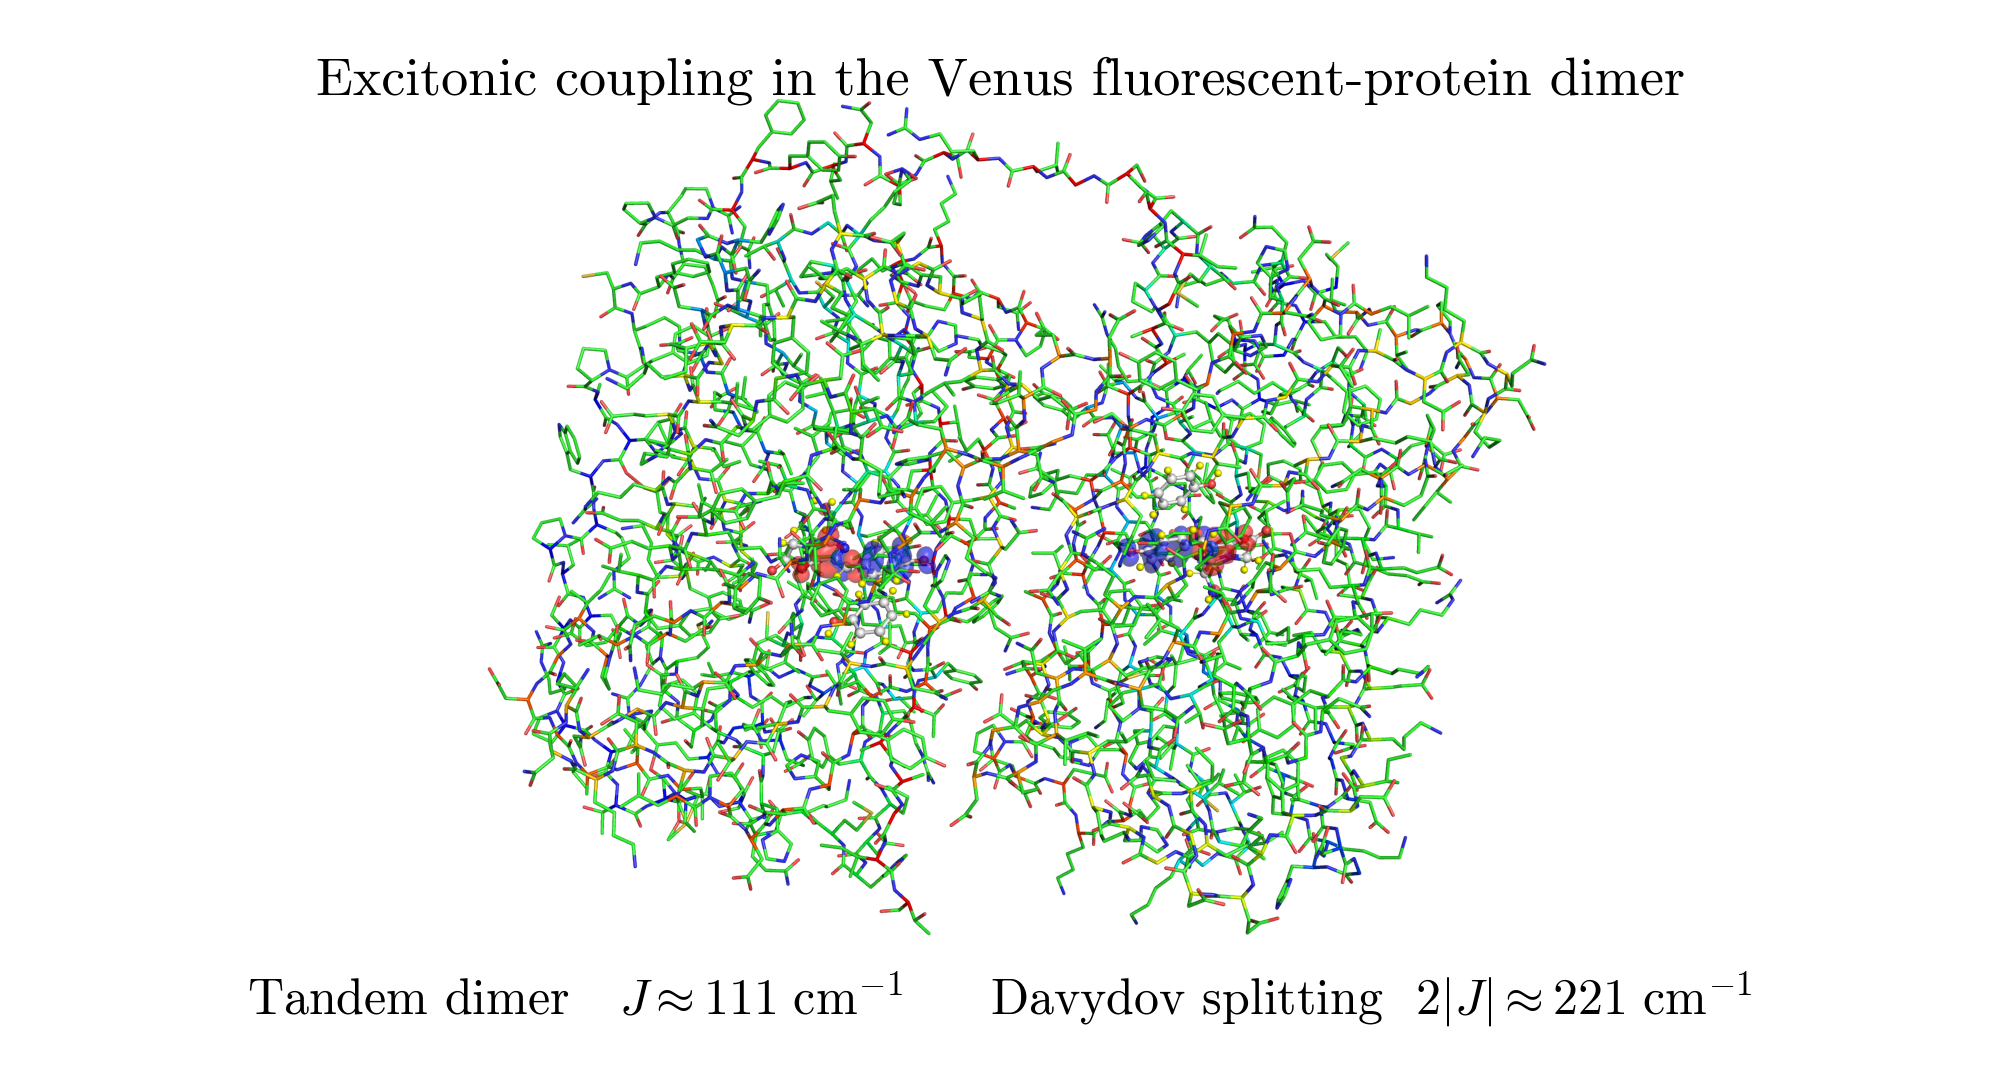
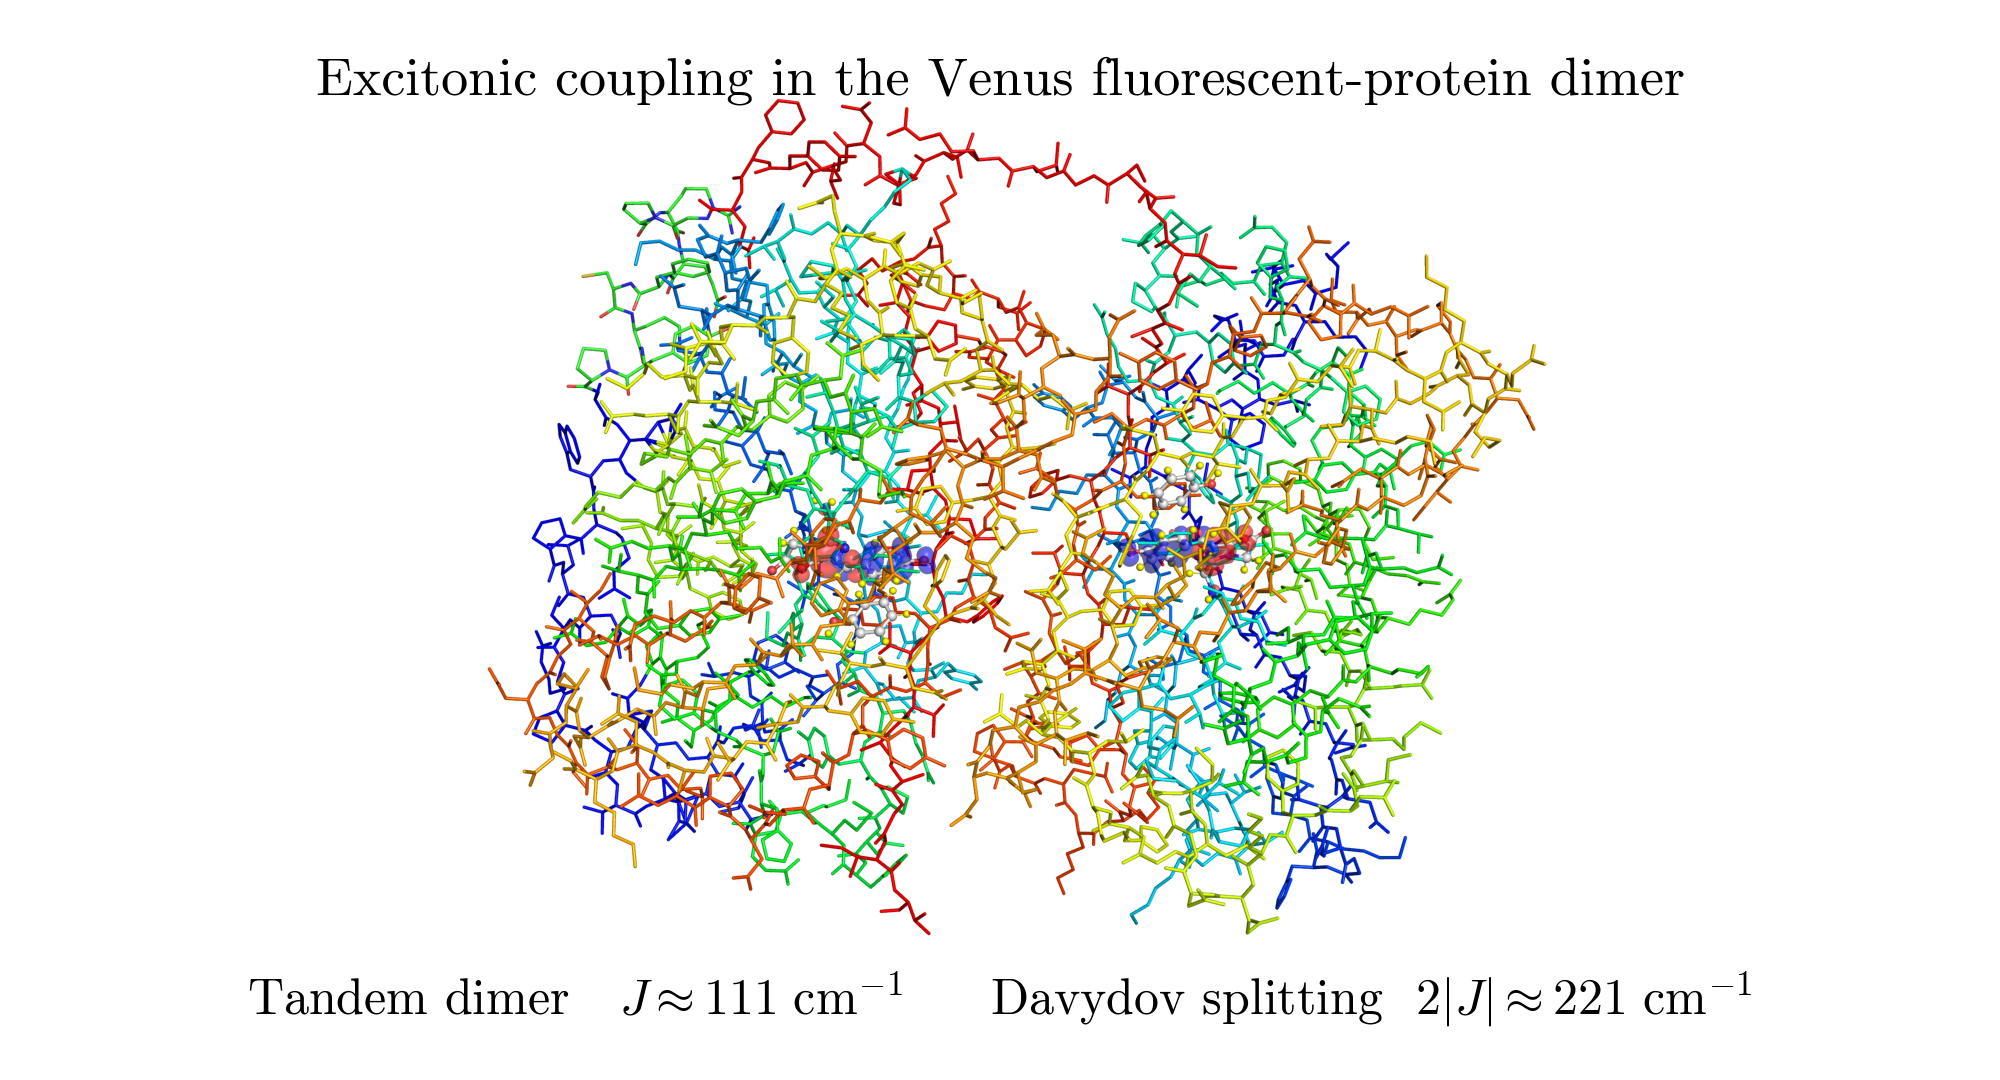
Fix PyMOL skeleton spectrum to color all atoms in the rainbow gradient

Changed region(s): [[0.248, 0.0917, 0.775, 0.8556]]

diff --git a/make_paper_figures.py b/make_paper_figures.py
@@ -30,8 +30,8 @@ cmd.matrix_copy("siteB", "siteB")
 
 cmd.hide("everything")
 cmd.show("lines", "dimer_ref")
-cmd.spectrum("count", "rainbow", "dimer_ref and resi 1-240 and name CA")
-cmd.spectrum("count", "rainbow", "dimer_ref and resi 250-500 and name CA")
+cmd.spectrum("count", "rainbow", "dimer_ref and resi 1-240")
+cmd.spectrum("count", "rainbow", "dimer_ref and resi 250-500")
 
 for s in ("siteA","siteB"):                                       # QM chromophore sticks+spheres
     cmd.show("sticks",  f"{s} and {QM}")

diff --git a/make_toc_white.py b/make_toc_white.py
@@ -36,8 +36,8 @@ cmd.disable("mt")
 
 cmd.hide("everything")
 cmd.show("lines", "dimer_ref")
-cmd.spectrum("count", "rainbow", "dimer_ref and resi 1-240 and name CA")
-cmd.spectrum("count", "rainbow", "dimer_ref and resi 250-500 and name CA")
+cmd.spectrum("count", "rainbow", "dimer_ref and resi 1-240")
+cmd.spectrum("count", "rainbow", "dimer_ref and resi 250-500")
 for q in ("qmA", "qmB"):
     cmd.show("sticks", q); cmd.show("spheres", q)
 util.cbaw("qmA or qmB")
